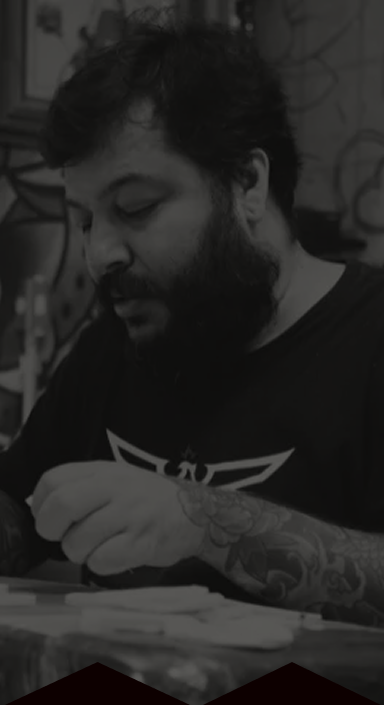
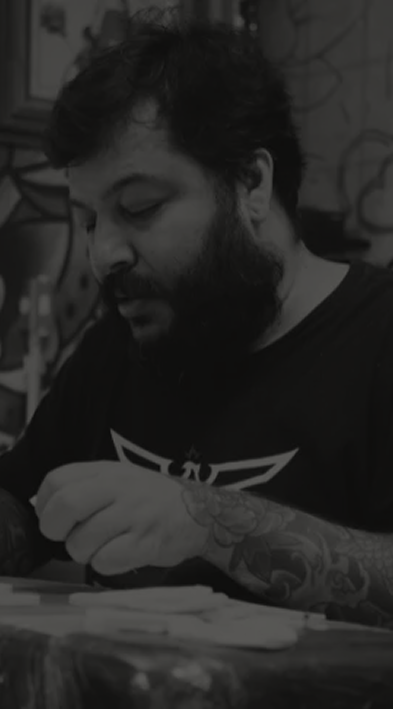
ajustes na pagina de artista, corrigido clip-patch do header, ajustado responsivo da sessao de informacoes e feita a sessao de habilidades

diff --git a/tuzinho.html b/tuzinho.html
@@ -15,10 +15,6 @@
     <link rel="stylesheet" href="src/arq/css/basico/buid.css">
     <link rel="stylesheet" href="src/arq/css/artista.css">
     <style>
-        body {
-            background-color: #0D0000;
-        }
-
         .principal {
             height: 100vh;
             min-height: 100%;
@@ -35,6 +31,33 @@
             width: 500px;
             margin-inline: 20px;
             position: absolute;
+        }
+
+        .efeito {
+            height: 180px;
+            width: 100%;
+            bottom: -2px;
+            right: 0;
+            left: 0;
+        }
+
+        .efeito .triangulo-d,
+        .efeito .triangulo-e {
+            height: 180px;
+            width: 50vw;
+            background-color: #0D0000;
+            clip-path: polygon(50% 0%, 0% 100%, 100% 100%);
+        }
+
+        @media (max-width: 970px) {
+            .efeito {
+                height: 150px;
+            }
+
+            .efeito .triangulo-d,
+            .efeito .triangulo-e {
+                height: 150px;
+            }
         }
 
         @media (max-width:770px) {
@@ -56,6 +79,17 @@
 
             .principal img {
                 object-position: center;
+            }
+
+            .efeito {
+                height: 70px;
+
+            }
+
+            .efeito .triangulo-d,
+            .efeito .triangulo-e {
+                height: 70px;
+
             }
         }
 
@@ -89,19 +123,24 @@
             <div class="img-logo position-absolute">
                 <img src="src/img/icones/logo-original/Logo-branco.webp" alt="">
             </div>
+            <div class="efeito d-flex justify-content-center position-absolute">
+                <div class="triangulo-d">
+                </div>
+                <div class="triangulo-e">
+                </div>
+            </div>
         </section>
     </header>
 
     <main>
-
         <section class="artista mt-sessao container d-flex justify-content-center align-items-center">
-            <div class="d-flex flex-column justify-content-center align-items-center text-center">
+            <div class="d-flex flex-column justify-content-center align-items-center text-center col-4">
                 <h2 class="titulo-artista mb-4">Tatuador profissional e renomado </h2>
                 <img src="src/img/LP-artistas/perfil/tuzinho-perfil.png" width="505" height="708" img-fluid"
                     alt="Foto de perfil do Tuzinho">
             </div>
 
-            <div>
+            <div class="col-8">
                 <h2 class="titulo-artista mb-4">Tatuador profissional e renomado </h2>
                 <p class="fonte-principal my-4">À frente do estúdio está Tuzinho Tattoo, um dos tatuadores mais
                     renomados do país. Com mais de 30 anos de experiência, Tuzinho se especializou no realismo e em
@@ -112,6 +151,38 @@
                 <h3 class="fonte-artista fs-70 ">Tuzinho</h3>
                 <button class="btn-artista">Solicitar orçamento</button>
             </div>
+        </section>
+        <section class="d-flex flex-column justify-content-center align-items-center mt-sessao mb-sessao">
+            <div class="header-sessao d-flex flex-column justify-content-center aling-items-center mb-5">
+                <span class="fonte-titulo fs-12 text-center">minhas</span>
+                <h2 class="fonte-artista fs-45">Especialidades</h2>
+            </div>
+            <div class="habilidades justify-content-center align-items-center">
+                <div class="card-skill d-flex flex-column justify-content-center align-items-center">
+                    <img src="src/img/icones/especialidades/realismo-colorido.png" class="mb-2" width="60" height="60"
+                        alt="icone de realismo colorido">
+                    <h2 class="fonte-titulo text-light fs-15">Realismo colorido</h2>
+                    <p class="fonte-principal text-light fs-12 text-center px-3">A tatuagem realista colorida é uma
+                        técnica que busca reproduzir imagens com alto nível de detalhe e profundidade, utilizando cores
+                        vibrantes para criar um efeito tridimensional e realista na pele.</p>
+                </div>
+                <div class="card-skill d-flex flex-column justify-content-center align-items-center">
+                    <img src="src/img/icones/especialidades/realismo-preto-e-cinza.png" class="mb-2" width="60"
+                        height="60" alt="icone de realismo colorido">
+                    <h2 class="fonte-titulo text-light fs-15">realismo preto e cinza</h2>
+                    <p class="fonte-principal text-light fs-12 text-center px-3">A tatuagem de realismo preto e cinza
+                        utiliza apenas tons de preto e cinza para criar profundidade, contraste e sombreamento,
+                        resultando em imagens detalhadas e realistas com um efeito tridimensional.</p>
+                </div>
+                <div class="card-skill d-flex flex-column justify-content-center align-items-center">
+                    <img src="src/img/icones/especialidades/realismo.png" class="mb-2" width="60"
+                        height="60" alt="icone de realismo colorido">
+                    <h2 class="fonte-titulo text-light fs-15">realismo</h2>
+                    <p class="fonte-principal text-light fs-12 text-center px-3">A tatuagem de realismo é um estilo que busca reproduzir imagens com alta fidelidade à realidade, utilizando sombreamento, contraste e profundidade para criar um efeito tridimensional na pele.</p>
+                </div>
+            </div>
+
+
         </section>
 
         <section class="contato container d-flex flex-column mt-sessao mb-sessao">

diff --git a/src/arq/css/artista.css b/src/arq/css/artista.css
@@ -6,7 +6,7 @@ body {
 }
 
 .img-logo {
-  bottom: 50px;
+  bottom: 150px;
   right: 50px;
 }
 
@@ -21,6 +21,20 @@ body {
 .titulo-artista {
   font-family: 'Berkshire Swash', serif;
   font-size: 3rem;
+}
+
+.habilidades {
+  display: grid;
+  grid-template-columns: repeat(3, 300px);
+  gap: 10px;
+}
+
+.card-skill {
+  width: 250px;
+  height: 250px;
+  background-color: #1e0000;
+  box-shadow: 5px 2px #fff;
+  border-radius: 10px;
 }
 
 @media (max-width: 1500px) {
@@ -38,13 +52,22 @@ body {
 }
 
 @media (max-width: 970px) {
-  .img-logo {
-    bottom: 100px;
-  }
   .artista img {
     width: 400px;
   }
+
+  .artista .col-4,
+  .artista .col-8 {
+    width: 100% !important;
+    min-width: 100%;
+  }
+
+  .habilidades {
+    grid-template-columns: repeat(2, 1fr);
+    gap: 50px;
+  }
 }
+
 @media (max-width: 770px) {
   .fonte-titulo:nth-child(1) {
     font-size: 2.8rem !important;
@@ -60,9 +83,14 @@ body {
     justify-content: center;
     width: 100%;
   }
-
   .titulo-artista {
     font-size: 2rem;
+  }
+  .header-sessao .fonte-titulo {
+    font-size: 13px !important;
+  }
+  .habilidades {
+    gap: 20px;
   }
 }
 
@@ -70,6 +98,24 @@ body {
   .fonte-artista {
     font-size: 7.5rem;
     margin-bottom: 1rem !important;
+  }
+
+  .card-skill {
+    width: 100px;
+    height: 100px;
+  }
+
+  .card-skill img {
+    width: 40px;
+    height: 40px;
+  }
+
+  .card-skill h2 {
+    font-size: 11px !important;
+  }
+
+  .card-skill p {
+    display: none;
   }
 }
 
@@ -82,7 +128,7 @@ body {
   .img-logo {
     bottom: 50px;
   }
-  
+
   .img-logo img {
     height: 80px !important;
     width: 80px !important;
